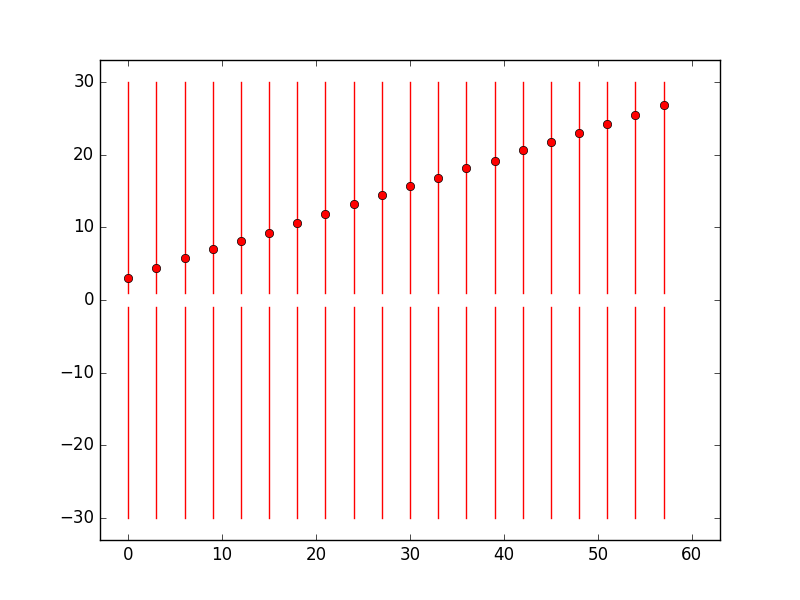
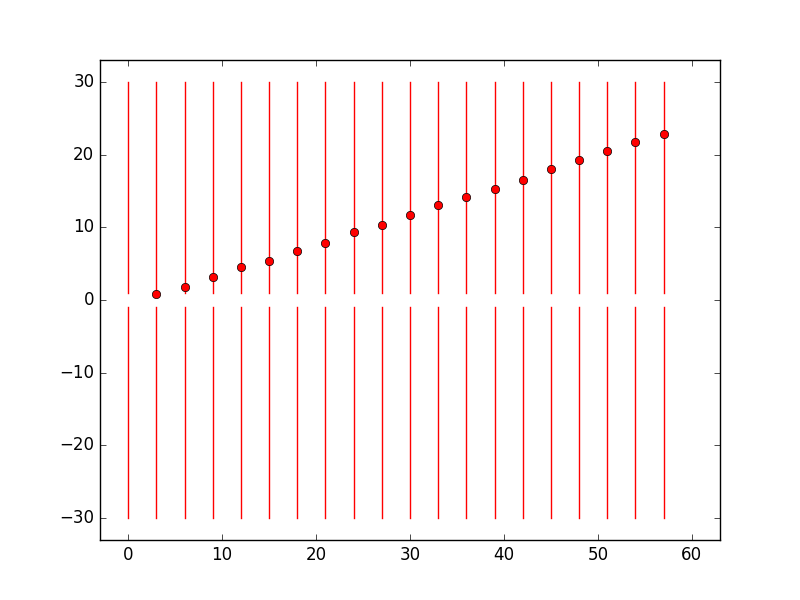
Added ghost vs N vetices

diff --git a/tracking/retina.py b/tracking/retina.py
@@ -9,7 +9,7 @@ c = 3.e-2 #3e8 / 1e10
 
 class retina :
 
-    def __init__(self, nplanes, pl_dist, npoints = 50, time = False, fast = True) :
+    def __init__(self, nplanes, pl_dist, npoints = 50, time = False, fast = True, twoD = False) :
         
         self.grid = {}
         self.npts = npoints
@@ -19,9 +19,11 @@ class retina :
         self.rin = 1.
         self.rout = 30.
         self.zmin = 0.
+        self.nplanes = nplanes
         self.zmax = (nplanes-1) * pl_dist
         self.step_r = 2*self.rout / self.npts
         self.step_phi = 2*math.pi / self.npts
+        self.twoD = twoD
         
         self.ranges = {
                 "r1" : [ self.step_r*(x+0.5) for x in range(0,self.npts)],
@@ -37,24 +39,41 @@ class retina :
     def get_intersect(self,line,z) :
         
         if ( abs(line[1] - line[0]) < 1.e-6 ) : return None
-        if ( abs(line[3] - line[2]) < 1.e-6 ) : return None
+        if ( not self.twoD ) : 
+            if (abs(line[3] - line[2]) < 1.e-6 and not self.twoD ) : 
+                return None
 
         zx0 = -line[0] * ( self.zmax - self.zmin ) / (line[1] - line[0]) + self.zmin
-        yx0 = line[2] + ( zx0 - self.zmin) * (line[3] - line[2])
-        #if abs(yx0) > 1 :  return None
+        
+        if not self.twoD :
+            yx0 = line[2] + ( zx0 - self.zmin) * (line[3] - line[2])
 
-        factor = ( z - self.zmin) / ( self.zmax - self.zmin )
-        x = line[0] + factor * (line[1] - line[0])
-        y = line[2] + factor * (line[3] - line[2])
-        return [ x, y, math.sqrt( (zx0 - z)**2 + y**2 + x**2) / c ]
+            factor = ( z - self.zmin) / ( self.zmax - self.zmin )
+            x = line[0] + factor * (line[1] - line[0])
+            y = line[2] + factor * (line[3] - line[2])
+            return [ x, y, math.sqrt( (zx0 - z)**2 + y**2 + x**2) / c ]
+        
+        else :
+            
+            factor = ( z - self.zmin) / ( self.zmax - self.zmin )
+            x = line[0] + factor * (line[1] - line[0])
+            return [ x, 0., math.sqrt( (zx0 - z)**2 + x**2) / c ]
+        
 
-	def get_closest_pt(self,p0,p1) :
-		
-		nstepx0 = round( p0[0] / self.step_r )
-		nstepy0 = round( p0[1] / self.step_r )
-		nstepx1 = round( p1[0] / self.step_r )
-		nstepy1 = round( p1[1] / self.step_r )
-		return [nstepx0*self.step_r,nstepx1*self.step_r,nstepy0*self.step_r,nstepy1*self.step_r]
+
+
+    def get_closest_pt(self,p0,p1 = None) :
+        
+        nstepx0 = round( p0[0] / self.step_r )
+        nstepy0 = 0.
+        if not self.twoD : nstepy0 = round( p0[1] / self.step_r )        
+        if p1 is None :
+            return (nstepx0*self.step_r,nstepy0*self.step_r)
+        
+        nstepx1 = round( p1[0] / self.step_r )
+        nstepy1 = 0.
+        if not self.twoD : nstepy1 = round( p1[1] / self.step_r )
+        return (nstepx0*self.step_r,nstepx1*self.step_r,nstepy0*self.step_r,nstepy1*self.step_r)
 
     def analyse_event(self, tracks, noise) :
 
@@ -62,26 +81,38 @@ class retina :
         for tr in tracks :
             for pl,hit in enumerate(tr["hits"]) :
                 if(len(hit)>1) : all_pts[pl].append(hit)
-
-        sigma = 2*self.step_r
+        
+        sigma = self.step_r
+        if not self.twoD : sigma *= 2
         twosigma = 2 * sigma
         twosigmasq = 2 * sigma * sigma
-		
-		grid = []
-		if( self.fast_retina ) :
-			for p0 in range(all_pts[5]) :
-				for p1 in range(all_pts[-1]) :
-					grid.append(self.get_closest_pt(p0,p1))			
-		else :
-			grid = itertools.product(self.ranges["x1"],self.ranges["x2"],self.ranges["y1"],self.ranges["y2"])
-		
+        
+        grid = []
+        if( self.fast_retina == "fast" ) :
+            for p0 in all_pts[5] :
+                for p1 in all_pts[self.nplanes-1] :
+                    grid.append(self.get_closest_pt(p0,p1))            
+        elif( self.fast_retina == "semifast" ) :
+            xx = []
+            yy = []
+            for p1 in all_pts[self.nplanes-1] :
+                pt = self.get_closest_pt(p1)
+                xx.append(pt[0])
+                yy.append(pt[1])
+            grid = itertools.product(self.ranges["x1"],xx,self.ranges["y1"],yy) 
+        else :
+            if not self.twoD :
+                grid = itertools.product(self.ranges["x1"],self.ranges["x2"],self.ranges["y1"],self.ranges["y2"])
+            else :
+                grid = itertools.product(self.ranges["x1"],self.ranges["x2"])
+
         for pt in grid :
             for pl in range(len(all_pts)) :
                 for p in all_pts[pl] :
-                    
                     intersect = self.get_intersect(pt,p[2])
                     if intersect is None : continue
-                    dist = abs(p[0] - intersect[0]) + abs(p[1] - intersect[1]) 
+                    dist = abs(p[0] - intersect[0]) 
+                    if not self.twoD : dist += abs(p[1] - intersect[1]) 
                     if(twosigma > dist) :
                         if pt not in self.grid : self.grid[pt] = 0
                         self.grid[pt] += math.exp(-(dist*dist)/twosigmasq)
@@ -96,20 +127,25 @@ class retina :
         y = []
         w = []
         for coord,val in self.grid.iteritems() :    
-            x.append( coord[2] )
-            y.append( coord[3] )
+            x.append( coord[0] )
+            y.append( coord[1] )
             w.append( val )
 
         maxgrid = max(self.grid.iterkeys(), key=lambda k: self.grid[k])
-        xA,yA,zA = maxgrid[0], maxgrid[2], self.zmin
-        xB,yB,zB = maxgrid[1], maxgrid[3], self.zmax
+        
+        xA,yA,zA = maxgrid[0], 0., self.zmin
+        xB,yB,zB = maxgrid[1], 0., self.zmax
+        if not self.twoD :
+            yA = maxgrid[2]
+            yB = maxgrid[3]
+
         dx = (xB - xA)
         dy = (yB - yA)
         dz = (zB - zA)
         if(dx == 0) : phi = math.pi / 2.
         else : phi = math.atan ( dy / dx )
-        if( phi == 0 ) : alpha = math.atan ( dy / dz / math.sin( phi ) )
-        else : alpha = math.atan ( dx / dz / math.cos( phi ) )
+        if( phi == 0 ) : alpha = math.atan ( dx / dz / math.cos( phi ) )
+        else : alpha = math.atan ( dy / dz / math.sin( phi ) )
         z0 = zA - xA * dz / dx
         print "(x1,x2,y1,y2) = ", maxgrid
         print "z0 = ", z0, " phi = ", phi, " alpha = ", alpha

diff --git a/tracking/event_generator.py b/tracking/event_generator.py
@@ -7,13 +7,14 @@ from planes_geometry import planes_geom as planes
 
 class event_generator :
 	
-	def __init__(self, geometry, hit_eff, lumi_sigma, sigma) :
+	def __init__(self, geometry, hit_eff, lumi_sigma, sigma, twoD = False) :
 		
 		self.geom = geometry
 		self.hit_eff = hit_eff
 		self.lumi_sigma = lumi_sigma
 		self.sigma = sigma
-		
+		self.twoD = twoD
+
 		self.tracks = []
 	
 	
@@ -37,7 +38,9 @@ class event_generator :
 		trk["y0"]	= 0. #random.gauss(0,self.lumi_sigma[1])
 		trk["z0"]	= random.gauss(0,self.lumi_sigma[2])
 	
-		trk["phi"]   = random.uniform(0,2*math.pi)
+		trk["phi"]  = 0.
+		if not self.twoD :
+			trk["phi"]   = random.uniform(0,2*math.pi)
 		trk["alpha"] = random.uniform(min_alpha,max_alpha)
 	
 		trk["xc"]	= math.tan(trk["alpha"]) * math.cos(trk["phi"])
@@ -69,11 +72,12 @@ class event_generator :
 		trk["hits"] = []
  
 		for pl in trk["true_hits"] :
-			if len(pl) > 1 :		
+			if len(pl) > 1 :
+				y = 0.
+				if not self.twoD : y = random.gauss(pl[1], self.sigma[1])
 				trk["hits"].append( [				# Smear true hit by resolution
 					random.gauss(pl[0], self.sigma[0]),
-					random.gauss(pl[1], self.sigma[1]),
-					pl[2],
+					y, pl[2],
 					random.gauss(pl[3], self.sigma[3])
 				] )
 			else :
@@ -150,12 +154,12 @@ class event_generator :
 		fig.gca().cla()
 		fig.gca().axis([-self.geom.pl_dist,(self.geom.nplanes+1)*self.geom.pl_dist,-lim,lim])
 		
-		hits_y = []
+		hits_x = []
 		hits_z = []
 		for trk in trks :
 			for p in trk["hits"] :
 				if len(p) > 1 :
-					hits_y.append(p[1])
+					hits_x.append(p[0])
 					hits_z.append(p[2])
 		
 		for pl in range(self.geom.nplanes) :
@@ -166,7 +170,7 @@ class event_generator :
 		   		[pl*self.geom.pl_dist,pl*self.geom.pl_dist],
 				[self.geom.planes_inner_radius,self.geom.planes_outer_radius],'r') 
 
-		fig.gca().plot(hits_z,hits_y,'o',color='red')
+		fig.gca().plot(hits_z,hits_x,'o',color='red')
 		fig.savefig("event.png")	
 		plt.show()
 			

diff --git a/tracking/run_retina.py b/tracking/run_retina.py
@@ -11,7 +11,7 @@ dimensions = {
     'phi' :   { 'min' : 0., 'max' : 2*math.pi, 'npoints' : 50}
     }
 
-myretina = retina.retina(npoints = 50, nplanes = 20, pl_dist = 3.)#, time=True)
+myretina = retina.retina(npoints = 100, nplanes = 20, pl_dist = 3., twoD=True)
 
 geom = planes(
 			nplanes = 20,	# Number of planes
@@ -24,7 +24,8 @@ evt_gen = gen(
 			geometry = geom,
 			hit_eff = 1.,	# Hit efficiency. 1 for simplicity
 			lumi_sigma = [0.1,0.1,5.], # Luminosity region gaussian with sigma = 5 cm around 0
-			sigma = [0.1,0.1,0.,30.]
+			sigma = [0.1,0.1,0.,30.],
+            twoD = True
 		)
 	
 evt_gen.generate_event(ntracks = 1, nnoise = 20)
